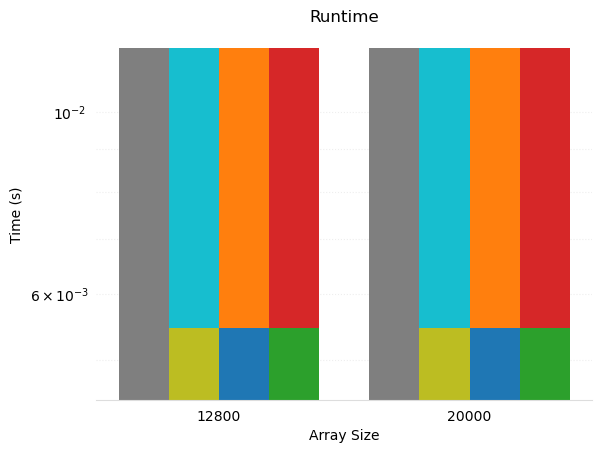
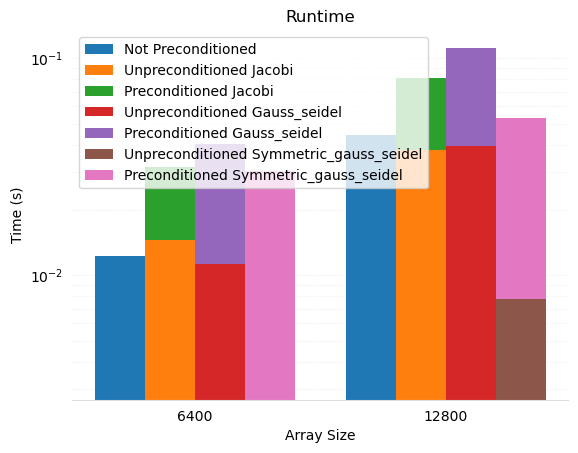
Fixed bugs with plots (just runtime, need error plots too)

diff --git a/main.py b/main.py
@@ -77,36 +77,51 @@ def plot_figures(m_array,
     # ax = fig.add_axes([0, 0, 1, 1])
 
     c_value = c_array[0]
+    bottom_bar_array = []
 
-    for m_index, m_value in enumerate(m_array):
-        for precondition_index, precondition_type in enumerate(precondition_array):
-            if precondition_type is None:
-                # color='...'
-                # blue - b
-                plt.bar(bars_array[precondition_index],
-                        total_runtime_dict[m_value][c_value][precondition],
-                        width=barWidth,
-                        label=f"Not Preconditioned",
-                        log=1)
-            else:
-                precondition_name = str.lower(precondition_type.name).capitalize()
+    # for m_index, m_value in enumerate(m_array):
+    for precondition_index, precondition_type in enumerate(precondition_array):
+        # print(f"precondition: {precondition_type}")
+        if precondition_type is None:
+            total_runtime_array_c = [total_runtime_dict[m_value][c_value][precondition_type]
+                                     for m_value in m_array]
 
-                # changed from br3 -- stack the repartition time with new hybrid time
-                # change so output[3] is on bottom -- new repartitioned hybrid time
-                # red - r
-                plt.bar(bars_array[precondition_index],
-                        non_precondition_runtime_dict[m_value][c_value][precondition],
-                        width=barWidth,
-                        label=f"Unpreconditioned {precondition_name}",
-                        log=1)
+            # color='...'
+            # blue - b
+            plt.bar(bars_array[precondition_index],
+                    total_runtime_array_c,
+                    width=barWidth,
+                    label=f"Not Preconditioned",
+                    log=1)
+        else:
+            precondition_name = str.lower(precondition_type.name).capitalize()
 
-                # green - g
-                plt.bar(bars_array[precondition_index],
-                        precondition_runtime_dict[m_value][c_value][precondition],
-                        width=barWidth,
-                        label=f"Preconditioned {precondition_name}",
-                        bottom=non_precondition_runtime_dict[m_value][c_value][precondition],
-                        log=1)
+            non_precondition_runtime_array_c = [non_precondition_runtime_dict[m_value][c_value][precondition_type]
+                                                for m_value in m_array]
+            bottom_bar_array.append(non_precondition_runtime_array_c)
+            print(non_precondition_runtime_array_c)
+            print(non_precondition_runtime_dict)
+
+            # changed from br3 -- stack the repartition time with new hybrid time
+            # change so output[3] is on bottom -- new repartitioned hybrid time
+            # red - r
+            plt.bar(bars_array[precondition_index],
+                    non_precondition_runtime_array_c,
+                    width=barWidth,
+                    label=f"Unpreconditioned {precondition_name}",
+                    log=1)
+
+            precondition_runtime_array_c = [precondition_runtime_dict[m_value][c_value][precondition_type]
+                                            for m_value in m_array]
+
+            # bottom bar EXCLUDE None...
+            # green - g
+            plt.bar(bars_array[precondition_index],
+                    precondition_runtime_array_c,
+                    width=barWidth,
+                    label=f"Preconditioned {precondition_name}",
+                    bottom=bottom_bar_array[precondition_index - 1],
+                    log=1)
 
     ##########################
     # plot details
@@ -116,26 +131,36 @@ def plot_figures(m_array,
 
     offset = ((1 / 2) * (num_bars_per_group - 1)) * barWidth
 
-    # plt.legend()
+    plt.legend()
 
     plt.xticks([r + offset for r in range(m_len)],
                m_array)
 
     plt.savefig(f"test_runtime_timings_plot.png", bbox_inches="tight")
 
+    print(bottom_bar_array)
+
 
 if __name__ == '__main__':
     # m_array = [600, 1300, 2500, 5000, 1000, 2000]
     # m_array = [600, 1200, 2400, 4800, 9600, 19200]
     # m_array = [400, 800, 1600, 3200, 6400, 12800]
-    m_array = [12800, 20000]
+    m_array = [6400, 12800]
+
+    a = []
+    b = []
+    for i in range(3):
+        b = [1, 2, 3]
+        b.append(i)
+        a.append(b)
+    print(a)
 
     # b_array = [10, 50, 100, 500, 1000, 5000, 10000]
     # b_array = [1]
 
     # starting with c = 0.75, convergence is consistent
     # c_array = [0.5, 1, 2, 4, 8]
-    c_array = [1]
+    c_array = [2]
 
     # TODO: do
     # precondition_array = [precondition_enum.JACOBI,
